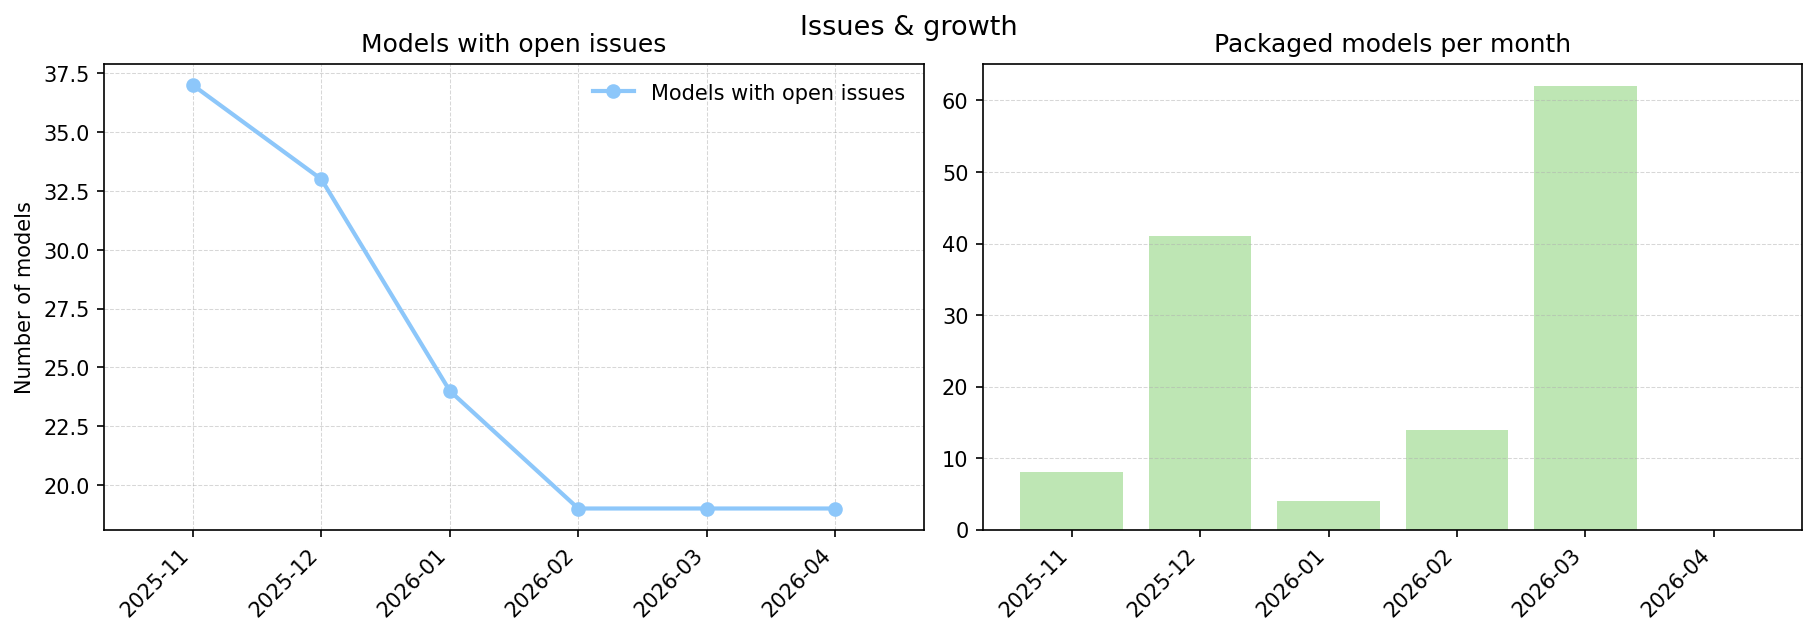
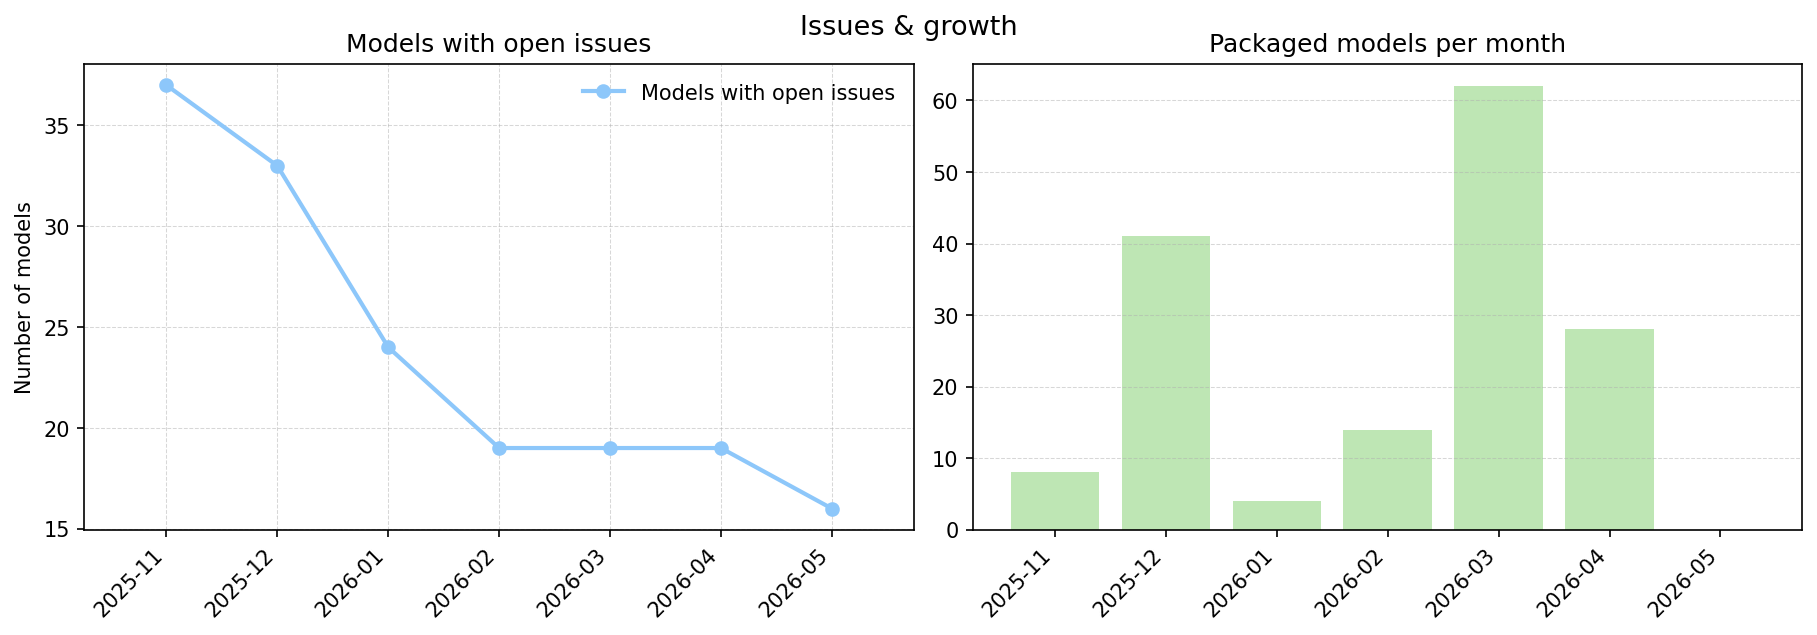
chore: monthly health report

diff --git a/reports/monthly_health_report.md b/reports/monthly_health_report.md
@@ -1,17 +1,17 @@
 # 📊 Monthly Health Report
 
-**Month:** 2026-04
-**Generated at:** 2026-04-01 07:30:33Z (UTC)
+**Month:** 2026-05
+**Generated at:** 2026-05-01 01:36:55Z (UTC)
 
 ## 🔢 Snapshot for this month
 
-- 📦 **Total models:** 221
-- ✅ **Healthy models:** 169
+- 📦 **Total models:** 224
+- ✅ **Healthy models:** 171
 - 🔴 **Failing models:** 7
-- ⏳ **Outdated models:** 45
-- 🧪 **Tested at least once:** 176
-- 🕳 **Never tested:** 45
-- ❗ **With open issues:** 19
+- ⏳ **Outdated models:** 46
+- 🧪 **Tested at least once:** 178
+- 🕳 **Never tested:** 46
+- ❗ **With open issues:** 16
 
 ## 🆕 Models packaged this month
 
